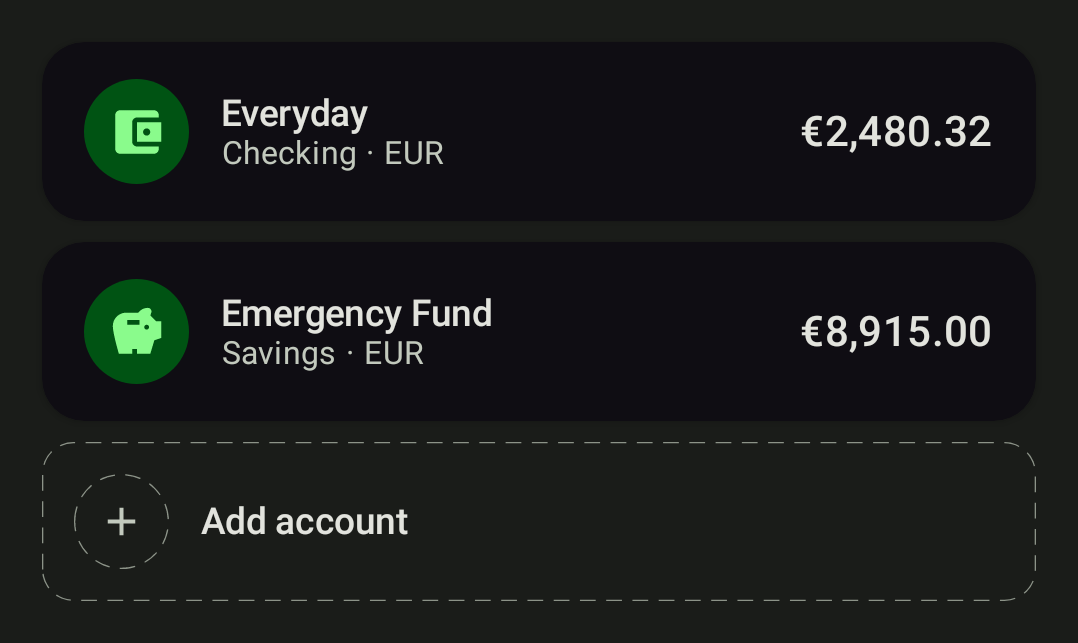
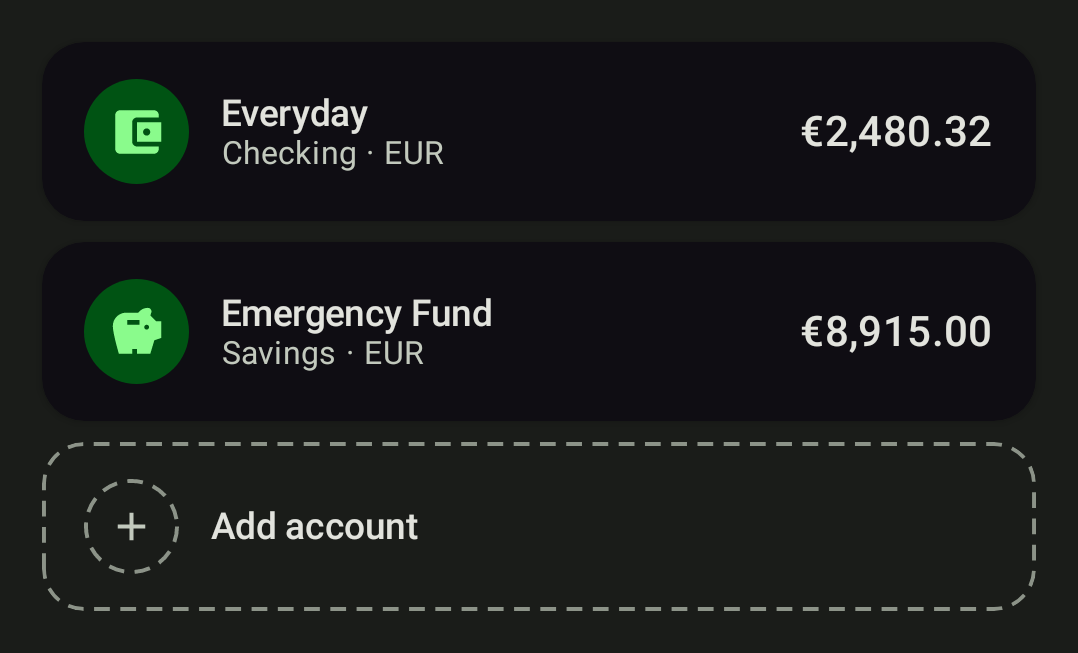
fix(uikit): clamp dashed-border geometry and re-record accounts baseline
Guard the inset rect and corner radius against boxes narrower than their
own stroke, and refresh the accounts widget screenshots now that the CTA
inherits the SurferActionCard chrome.

diff --git a/uikit/src/commonMain/kotlin/com/georgeci/moneysurfer/uikit/modifier/SurferDashedBorder.kt b/uikit/src/commonMain/kotlin/com/georgeci/moneysurfer/uikit/modifier/SurferDashedBorder.kt
@@ -27,15 +27,20 @@ fun Modifier.surferDashedBorder(
 ): Modifier = this.drawBehind {
     val stroke = strokeWidth.toPx()
     val inset = stroke / 2f
+    // CircleShape is a percent-based RoundedCornerShape, so it resolves here too.
     val cornerRadius = when (shape) {
         is RoundedCornerShape -> shape.topStart.toPx(Size(size.width, size.height), this)
         else -> 0f
     }
+    // A box narrower than its own stroke would otherwise draw an inverted rect.
+    val innerWidth = (size.width - stroke).coerceAtLeast(0f)
+    val innerHeight = (size.height - stroke).coerceAtLeast(0f)
+    val innerRadius = (cornerRadius - inset).coerceAtLeast(0f)
     drawRoundRect(
         color = color,
         topLeft = Offset(inset, inset),
-        size = Size(size.width - stroke, size.height - stroke),
-        cornerRadius = CornerRadius(cornerRadius - inset, cornerRadius - inset),
+        size = Size(innerWidth, innerHeight),
+        cornerRadius = CornerRadius(innerRadius, innerRadius),
         style = Stroke(
             width = stroke,
             pathEffect = PathEffect.dashPathEffect(floatArrayOf(dashLength.toPx(), dashGap.toPx()), 0f),
